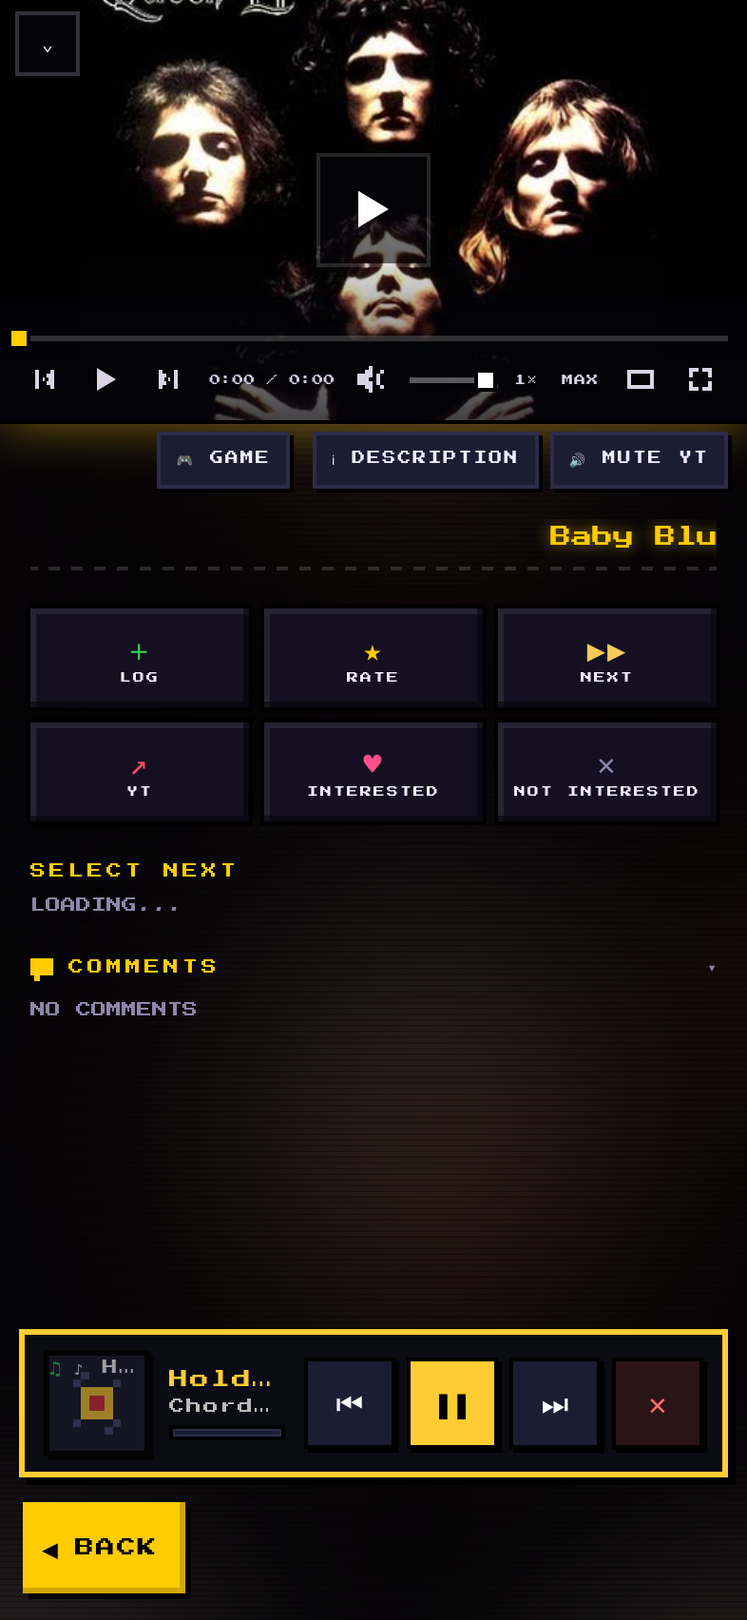
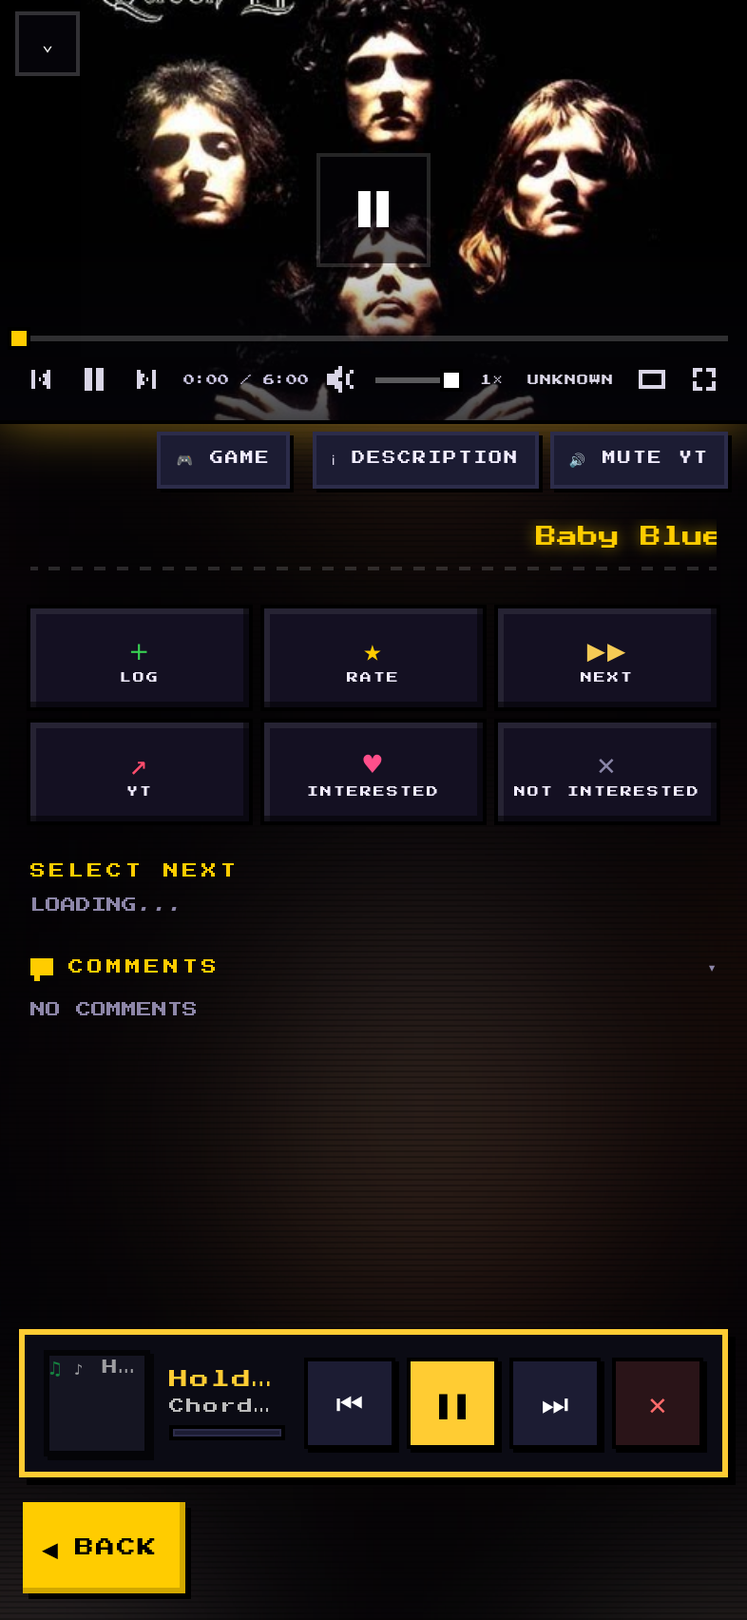
r67: add-title keyboard above sheet on every entry point; ARRANGE merges partial orders, keeps Our Top 5, never reverted by polls/stale replies/other saves; mini player cover; labelled shelf edit buttons

diff --git a/app/index.html b/app/index.html
@@ -1397,6 +1397,9 @@ body.ytfull58 #ytpage,body.ytfull58 body>main{pointer-events:none}
 .ps64 .ui-btn{min-width:44px;min-height:44px;padding:0}
 #set58 .ps63t{display:flex;align-items:center;justify-content:space-between;padding:10px 0}
 #set58 .ps63t span{font:9px var(--pix)}#set58 .ps63t .ui-btn{min-width:72px;min-height:44px}#set58 .ps63t .ui-btn.on{background:#1fae4b;color:#fff}
+/* r67: the 8-bit keyboard must sit above the add sheet (it was hidden under it) */
+body.addopen #kb{z-index:320}
+body.addopen.kbo #add .sheet{padding-bottom:calc(var(--kbh,300px) + 12px)}
 </style></head><body>
 <div id="splash" aria-label="Logged"></div>
 <header><div class="hin">
@@ -5959,12 +5962,12 @@ var DIRECT = /^https:\/\/(p\.scdn\.co\/mp3-preview\/|audio-ssl\.itunes\.apple\.c
 var ART = {}; try { ART = JSON.parse(localStorage.getItem('lg_art61') || '{}'); } catch (e) {} window.ART61 = ART;
 var PVM = {}; try { PVM = JSON.parse(localStorage.getItem('lg_pv60') || '{}'); } catch (e) {}
 function key(t) { return String(t.sp || t.id || '').replace(/[^\w]/g, '') || (String(t.n || '') + '|' + String(t.a || '')).toLowerCase(); }
-function apply(t) { if (!t.art && ART[key(t)]) t.art = ART[key(t)]; var u = PVM[key(t)]; if (u && (!SP.test(t.pv || '') || u !== t.pv)) { if (SP.test(u) || !DIRECT.test(t.pv || '')) t.pv = u; } return t; }
+function apply(t) { if (!t.art && ART[key(t)]) t.art = ART[key(t)]; if (t.art && t.pv) ART['u:' + t.pv] = t.art; var u = PVM[key(t)]; if (u && (!SP.test(t.pv || '') || u !== t.pv)) { if (SP.test(u) || !DIRECT.test(t.pv || '')) t.pv = u; } return t; }
 var Q = [], qt = 0, busy = 0;
 function pvFix(list) { (list || []).forEach(function (t) { if (!t || !t.n) return; apply(t); if ((SP.test(t.pv || '') && t.art) || t._pv60) return; t._pv60 = 1; Q.push(t); }); if (Q.length && !qt) qt = setTimeout(flush, 60); }
 function flush() { qt = 0; if (busy || !Q.length) return; var B = Q.splice(0, 25); busy = 1;
   run('songPv', [B.map(function (t) { return { id: t.sp || (/^[A-Za-z0-9]{22}$/.test(t.id || '') ? t.id : ''), n: t.n, a: t.a || '' }; })], function (R) { busy = 0;
-    (R || []).forEach(function (r, i) { var t = B[i]; if (!r || !t) return; if (r.id) t.sp = r.id; if (r.art) { t.art = t.art || r.art; ART[key(t)] = r.art; } if (r.u) { PVM[key(t)] = r.u; PVM[(String(t.n) + '|' + String(t.a || '')).toLowerCase()] = r.u; if (SP.test(r.u) || !DIRECT.test(t.pv || '')) t.pv = r.u; } });
+    (R || []).forEach(function (r, i) { var t = B[i]; if (!r || !t) return; if (r.id) t.sp = r.id; if (r.art) { t.art = t.art || r.art; ART[key(t)] = r.art; if (r.u) ART['u:' + r.u] = r.art; ART[(String(t.n) + '|' + String(t.a || '')).toLowerCase()] = r.art; } if (r.u) { PVM[key(t)] = r.u; PVM[(String(t.n) + '|' + String(t.a || '')).toLowerCase()] = r.u; if (SP.test(r.u) || !DIRECT.test(t.pv || '')) t.pv = r.u; } });
     try { var ks = Object.keys(PVM); if (ks.length > 600) ks.slice(0, ks.length - 600).forEach(function (k) { delete PVM[k]; }); localStorage.setItem('lg_pv60', JSON.stringify(PVM)); localStorage.setItem('lg_art61', JSON.stringify(ART)); } catch (e) {} try { window.decorate61 && decorate61(); } catch (e) {}
     if (Q.length) flush(); }, function () { busy = 0; B.forEach(function (t) { t._pv60 = 0; }); }); }
 window.pvFix60 = pvFix; window.PVM60 = PVM;
@@ -6130,7 +6133,9 @@ var _sp = spBar; spBar = function (t, playing) { var r = _sp.apply(this, argumen
   if (!x.dataset.v62) { x.dataset.v62 = 1; x.classList.add('mp62'); x.innerHTML = '<div class="m62a"></div><div class="m62m"><span></span><div class="m62p" aria-hidden="true"><i></i></div></div><div class="m62c"><button data-spc="prev" aria-label="Previous">⏮</button><button data-spc="toggle" class="spt" aria-label="Play or pause">❚❚</button><button data-spc="next" aria-label="Next">⏭</button><button data-spc="stop" class="m62x" aria-label="Close">✕</button></div>'; }
   var lab = String(t || '').replace(/\s·\s30s$/, '').replace(/^♪\s*/, ''), sp = split(lab), c = (typeof OXS !== 'undefined' && OXS.cur) || {};
   x.querySelector('.m62m span').innerHTML = '<b>' + esc(c.n && lab.indexOf(c.n) >= 0 ? c.n : sp[0]) + '</b><small>' + esc(c.n && lab.indexOf(c.n) >= 0 ? (c.a || sp[1]) : sp[1]) + '</small>';
-  var a = x.querySelector('.m62a'), u = c.art || ''; if (a.dataset.u !== u) { a.dataset.u = u; a.innerHTML = art61(u); }
+  var a = x.querySelector('.m62a'), AR = window.ART61 || {}, src = (typeof OXA !== 'undefined' && OXA && OXA.src) || '', mine = c.n && lab.indexOf(c.n) >= 0, u = (mine && c.art) || AR['u:' + src] || AR[(String(sp[0] || '') + '|' + String(sp[1] || '')).toLowerCase()] || (mine && c.a && AR[(c.n + '|' + c.a).toLowerCase()]) || '';
+  /* r67: same cover logic as the cabinet — keep the current cover while the same track plays (no re-insert flicker); skeleton while unknown, vinyl only on a real failure */
+  if (!u && a.dataset.src === src && a.dataset.u) u = a.dataset.u; if (a.dataset.u !== u || !a.firstChild) { a.dataset.u = u; a.dataset.src = src; a.innerHTML = u ? art61(u) : '<span class="sa61"></span>'; }
   var list = OXS.mode === 'clip' || (OXS.mode === 'tl' && window.R55 && R55.tl && Object.keys(R55.tl).reduce(function (t, p) { return t + (R55.tl[p] || []).length; }, 0) > 1); x.classList.toggle('m62one', !list);
   x.classList.toggle('paused', !playing); x.querySelector('.spt').textContent = playing ? '❚❚' : '▶'; prog(); return r; };
 function prog() { var x = $('thm'); if (!x || !x.dataset.v62 || typeof OXA === 'undefined') return; var d = OXA.duration || 30, f = Math.max(0, Math.min(1, (OXA.currentTime || 0) / (isFinite(d) && d > 0 ? d : 30))); var i = x.querySelector('.m62p i'); if (i) i.style.width = (f * 100).toFixed(1) + '%'; }
@@ -6223,12 +6228,17 @@ var _cab = cabinetHtml; cabinetHtml = function () { var h = _cab.apply(this, arg
   var secs = [].slice.call(C.children).filter(function (x) { return !/^H3$/.test(x.tagName) && !x.classList.contains('cbdv') && !x.classList.contains('arr64'); });
   var KNOWN = [[/OUR TOP 5/, 'OURTOP5'], [/TOP 5 MOVIES/, 'MOVIES'], [/TOP 5 SHOWS/, 'SHOWS'], [/TOP 5 SOUNDTRACKS/, 'SOUNDTRACKS'], [/TOP 5 YOUTUBE/, 'YOUTUBE']];
   secs.forEach(function (x) { if (x.dataset.sec) return; var h4 = x.querySelector('h4,h3,.lbl'), tx = h4 ? (h4.firstChild && h4.firstChild.nodeType === 3 ? h4.firstChild.textContent : h4.textContent) : ''; var k = KNOWN.filter(function (m) { return m[0].test(tx); })[0]; x.dataset.sec = k ? k[1] : x.classList.contains('cbst') ? 'STATS' : slug(tx.replace(/✎/g, '') || x.className); });
-  var order = (LAY66[p] || pr.lay || []).slice(), idx = function (k) { var i = order.indexOf(k); return i < 0 ? 1e3 + secs.findIndex(function (s) { return s.dataset.sec === k; }) : i; };
+  var order = mergeLay67(LAY66[p] || pr.lay || [], secs.map(function (s) { return s.dataset.sec; })), idx = function (k) { var i = order.indexOf(k); return i < 0 ? 1e3 + secs.findIndex(function (s) { return s.dataset.sec === k; }) : i; };
   secs.sort(function (a, b) { return idx(a.dataset.sec) - idx(b.dataset.sec); }).forEach(function (s) { C.appendChild(s); });
   if (own(p)) { var lab = C.querySelector('.cbdv'); var bar = '<div class="arr64"><button class="ui-btn' + (ARR ? ' on' : '') + '" data-arr64="toggle">' + (ARR ? '✓ DONE ARRANGING' : '⇅ ARRANGE') + '</button></div>'; if (lab) lab.insertAdjacentHTML('afterend', bar); else C.insertAdjacentHTML('afterbegin', bar); }
   if (ARR && own(p)) { C.classList.add('arranging'); secs.forEach(function (s, i) { s.insertAdjacentHTML('afterbegin', '<div class="arc64"><button class="ui-btn" data-arr64="up:' + s.dataset.sec + '"' + (i ? '' : ' disabled') + ' aria-label="Move section up">▲</button><b>' + esc(s.dataset.sec.replace(/-/g, ' ')) + '</b><button class="ui-btn" data-arr64="dn:' + s.dataset.sec + '"' + (i < secs.length - 1 ? '' : ' disabled') + ' aria-label="Move section down">▼</button></div>'); }); }
   return T.innerHTML; };
-var lt = 0, LAY66 = {}, LSEQ66 = {};
+var lt = 0, LAY66 = window.LAY66 = {}, LSEQ66 = {};
+/* r67: a saved order may be partial (e.g. saved before Our Top 5 had loaded). Keep its relative order and slot every missing section next to its default neighbour. */
+var DEF67 = ['OURTOP5', 'MOVIES', 'SHOWS', 'SOUNDTRACKS', 'YOUTUBE', 'QUOTES', 'STATS'];
+function mergeLay67(saved, present) { var out = (saved || []).filter(function (k, i, a) { return typeof k === 'string' && k && a.indexOf(k) === i; });
+  (present || []).forEach(function (k, i) { if (out.indexOf(k) >= 0) return; var prev = null; for (var j = i - 1; j >= 0; j--) if (out.indexOf(present[j]) >= 0) { prev = present[j]; break; } out.splice(prev ? out.indexOf(prev) + 1 : 0, 0, k); }); return out; }
+window.mergeLay67 = mergeLay67;
 function arrFix66(C) { var L = [].slice.call(C.children).filter(function (x) { return x.dataset && x.dataset.sec; }); L.forEach(function (s, i) { var u = s.querySelector(':scope > .arc64 [data-arr64^="up:"]'), d = s.querySelector(':scope > .arc64 [data-arr64^="dn:"]'); if (u) u.disabled = i === 0; if (d) d.disabled = i === L.length - 1; }); return L.map(function (x) { return x.dataset.sec; }); }
 function arrAct66(b) { var a = b.dataset.arr64, p = me();
   if (a === 'toggle') { ARR = !ARR; return renderStats(); }
@@ -6236,7 +6246,7 @@ function arrAct66(b) { var a = b.dataset.arr64, p = me();
   var L = [].slice.call(C.children).filter(function (x) { return x.dataset && x.dataset.sec; }), s = a.split(':'), i = L.findIndex(function (x) { return x.dataset.sec === s[1]; }), j = i + (s[0] === 'up' ? -1 : 1); if (i < 0 || j < 0 || j >= L.length) return;
   var el = L[i], top = el.getBoundingClientRect().top; if (s[0] === 'up') C.insertBefore(el, L[j]); else C.insertBefore(el, L[j].nextSibling);
   var keys = arrFix66(C); window.scrollBy(0, el.getBoundingClientRect().top - top); /* keep the moved section under the finger */
-  LAY66[p] = keys; profiles[p] = Object.assign({}, profiles[p] || {}, { lay: keys });
+  LAY66[p] = mergeLay67(keys, mergeLay67((profiles[p] || {}).lay || [], keys)); (function () { var full = mergeLay67((profiles[p] || {}).lay || [], []), seen = keys.slice(); full.forEach(function (k) { if (seen.indexOf(k) < 0) { var i = full.indexOf(k), prev = null; for (var j = i - 1; j >= 0; j--) if (seen.indexOf(full[j]) >= 0) { prev = full[j]; break; } seen.splice(prev ? seen.indexOf(prev) + 1 : 0, 0, k); } }); LAY66[p] = mergeLay67(seen, DEF67); })(); profiles[p] = Object.assign({}, profiles[p] || {}, { lay: LAY66[p] });
   clearTimeout(lt); lt = setTimeout(function () { var q = (LSEQ66[p] || 0) + 1; LSEQ66[p] = q; var pr = Object.assign({}, profiles[p] || {}, { lay: LAY66[p] }); busy++;
     run('saveProfile', [p, pr], function (o) { busy--; if (q !== LSEQ66[p]) return; /* stale */ if (o) profiles[p] = Object.assign({}, o, { lay: LAY66[p] }); }, function () { busy--; toast('COULDN\u2019T SAVE ORDER — CHECK CONNECTION'); }); }, 600); }
 var ag66 = 0;
@@ -6287,5 +6297,18 @@ window.PS64 = PS; window.psStart64 = psStart; window.psStop64 = psStop;
 window.addEventListener('click', function (e) { var b = e.target.closest && e.target.closest('button[data-who]'); if (!b || !$('v-stats') || !$('v-stats').contains(b)) return; e.preventDefault(); e.stopImmediatePropagation(); SFX.tap && SFX.tap();
   var w = b.dataset.who; if (w !== 'sam' && w !== 'lewy') return; try { psStop(); } catch (er) {} statWho = w; ARR = false; try { renderStats(); } catch (er) { console.error(er); } var Mn = document.querySelector('body>main'); if (Mn) Mn.scrollTop = 0; }, true);
 })();
+/* r67: every add-title entry point opens the add sheet with the title field active inside the same tap */
+(function () { var F = $('fab'); if (!F) return; var go = function () { initAdd(); $('add').classList.add('open'); var t = $('aTitle'); try { kbOpen(t); } catch (e) {} try { t.focus({ preventScroll: true }); } catch (e) {} try { t.scrollIntoView({ block: 'center' }); } catch (e) {} };
+  F.onclick = go; window.addNew67 = go;
+  var _oaw = openAddWith; openAddWith = function () { var r = _oaw.apply(this, arguments); try { kbOpen($('aTitle')); } catch (e) {} return r; }; })();
+
+/* r67: every profile save carries the newest local order; polls/refreshes never put an older order back */
+(function () { var _run = run; run = function (fn, args, ok, fail) { if (fn === 'saveProfile' && args && args[1] && window.LAY66 && LAY66[args[0]]) args[1] = Object.assign({}, args[1], { lay: LAY66[args[0]].slice() }); return _run.apply(this, arguments); };
+  setInterval(function () { try { ['sam', 'lewy'].forEach(function (p) { if (LAY66[p] && profiles[p] && JSON.stringify(profiles[p].lay) !== JSON.stringify(LAY66[p])) { var srv = profiles[p].lay; if (Array.isArray(srv) && srv.length && JSON.stringify(srv) === JSON.stringify(LAY66[p])) return; profiles[p] = Object.assign({}, profiles[p], { lay: LAY66[p].slice() }); } }); } catch (e) {} }, 1000); })();
+/* r67: shelf edit buttons always carry a visible label */
+(function () { var _r = renderStats; renderStats = function () { var r = _r.apply(this, arguments); try { document.querySelectorAll('#cab .ced59').forEach(function (b) { if (b.textContent.trim() !== '✎ EDIT') b.textContent = '✎ EDIT'; }); document.querySelectorAll('#cab h4 button').forEach(function (b) { if (!b.textContent.trim() && !b.querySelector('img,svg,canvas')) b.textContent = '✎ EDIT'; }); } catch (e) {} return r; }; })();
+/* r67: Our Top 5 repaints after its fetch replaced the section and dropped its arrange key/controls (so it vanished from the order and saves) */
+(function () { var _otp = ourTopPaint58; ourTopPaint58 = function () { var x = document.querySelector('#cab .ot58'), sec = x && x.dataset.sec, arc = x && x.querySelector(':scope > .arc64'), arcH = arc && arc.outerHTML; var r = _otp.apply(this, arguments);
+  var y = document.querySelector('#cab .ot58'); if (y && sec) { y.dataset.sec = sec; if (arcH && !y.querySelector(':scope > .arc64')) y.insertAdjacentHTML('afterbegin', arcH); } return r; }; })();
 
 </script></body></html>

diff --git a/tests/add67.steps.js b/tests/add67.steps.js
@@ -1,0 +1,20 @@
+(async () => { const out = {};
+const arc = async (label) => { await p.tap('#nav [data-v=stats]', { timeout: 4000 }); await p.waitForTimeout(500); const ok = await p.evaluate(l => { const b = [...document.querySelectorAll('#arch .archi')].find(x => x.innerText.toUpperCase().includes(l)); if (!b) return false; return true; }, label); if (!ok) return 'no item'; await p.evaluate(l => { [...document.querySelectorAll('#arch .archi')].find(x => x.innerText.toUpperCase().includes(l)).click(); }, label); await p.waitForTimeout(900); }; await p.evaluate(() => { const s = document.getElementById('splash'); s && s.remove(); });
+await p.tap('#navLogM').catch(e => out.e1 = e.message.slice(0, 80)); await p.waitForTimeout(600);
+out.items = await p.evaluate(() => [...document.querySelectorAll('button')].filter(b => b.offsetParent && /LOG IT/.test(b.innerText)).map(b => b.id + '|' + b.className));
+await p.evaluate(() => { const b = [...document.querySelectorAll('button')].filter(b => b.offsetParent && /LOG IT/.test(b.innerText) && b.id !== 'fab').pop(); b && b.setAttribute('data-t67', '1'); });
+await p.tap('[data-t67]').catch(e => out.e2 = e.message.slice(0, 80)); await p.waitForTimeout(800);
+out.st = await p.evaluate(() => { const a = document.getElementById('add'), t = document.getElementById('aTitle'), r = t.getBoundingClientRect(), kb = document.getElementById('kb'); return { open: a.classList.contains('open'), vis: getComputedStyle(a).visibility + '/' + getComputedStyle(a).display + '/' + getComputedStyle(a).opacity, t: [r.y, r.height], at: (document.elementFromPoint(r.x + 10, r.y + r.height / 2) || {}).id, act: document.activeElement && document.activeElement.id, kb: kb && kb.classList.contains('on'), kbR: kb && kb.getBoundingClientRect().y, kbz: kb && getComputedStyle(kb).zIndex, az: getComputedStyle(a).zIndex }; });
+out.kbTop = await p.evaluate(() => { const k = document.getElementById('kb'), r = k.getBoundingClientRect(), e = document.elementFromPoint(r.x + r.width / 2, r.y + 20); return k.contains(e); });
+await p.screenshot({ path: '/workspace/logged-site/shots/r67_logit_' + (await p.evaluate(() => me())) + '.png' });
+for (const ch of ['D', 'U', 'N']) { const bx = await p.evaluate(ch => { const b = [...document.querySelectorAll('#kb button')].find(b => b.innerText.trim() === ch); const r = b.getBoundingClientRect(); return [r.x + r.width / 2, r.y + r.height / 2]; }, ch); await p.touchscreen.tap(bx[0], bx[1]); await p.waitForTimeout(80); }
+out.typed = await p.evaluate(() => document.getElementById('aTitle').value); out.titleVis = await p.evaluate(() => { const t = document.getElementById('aTitle').getBoundingClientRect(), k = document.getElementById('kb').getBoundingClientRect(); return t.bottom <= k.top && t.top >= 0; });
+await p.evaluate(() => { document.getElementById('add').classList.remove('open'); try { kbClose(); } catch (e) {} });
+/* other entry points: + menu NEW ENTRY and nav add */
+await p.evaluate(() => { plusItems()[0].go(); }); await p.waitForTimeout(300); out.plus = await p.evaluate(() => [document.getElementById('add').classList.contains('open'), document.getElementById('kb').classList.contains('on'), document.getElementById('aTitle').classList.contains('kon')]);
+await p.evaluate(() => { document.getElementById('add').classList.remove('open'); kbClose(); document.getElementById('navAdd').click(); }); await p.waitForTimeout(300); out.navAdd = await p.evaluate(() => [document.getElementById('add').classList.contains('open'), document.getElementById('kb').classList.contains('on')]);
+/* mini player cover */
+await p.evaluate(() => { document.getElementById('add').classList.remove('open'); kbClose(); });
+await arc('PROFILE'); await p.waitForTimeout(600); await p.evaluate(() => { const b = document.querySelector('#cab [data-cbsnd]'); b && b.click(); }); await p.waitForTimeout(1500);
+out.mini = await p.evaluate(() => { const a = document.querySelector('#thm .m62a'); if (!a) return null; const i = a.querySelector('img'); return { cls: (a.querySelector('.sa61') || {}).className, src: i && i.src.slice(0, 60), filt: i && getComputedStyle(i).filter, ir: i && getComputedStyle(i).imageRendering, op: i && getComputedStyle(i).opacity }; });
+console.log('ADD67 ' + JSON.stringify(out)); console.log('errors', JSON.stringify(errs)); })()

diff --git a/tests/arr67.steps.js b/tests/arr67.steps.js
@@ -1,0 +1,21 @@
+(async () => { const out = {}; await p.evaluate(() => { const s = document.getElementById('splash'); s && s.remove(); }); const who = await p.evaluate(() => me()); out.who = who;
+const arc = async (label) => { await p.tap('#nav [data-v=stats]', { timeout: 4000 }); await p.waitForTimeout(500); const ok = await p.evaluate(l => { const b = [...document.querySelectorAll('#arch .archi')].find(x => x.innerText.toUpperCase().includes(l)); if (!b) return false; return true; }, label); if (!ok) return 'no item'; await p.evaluate(l => { [...document.querySelectorAll('#arch .archi')].find(x => x.innerText.toUpperCase().includes(l)).click(); }, label); await p.waitForTimeout(900); };
+const ord = () => p.evaluate(() => [...document.querySelectorAll('#cab > [data-sec]')].map(x => x.dataset.sec));
+const up = async k => { const bx = await p.evaluate(k => { const b = document.querySelector('[data-arr64="up:' + k + '"]'); if (!b || b.disabled) return null; b.scrollIntoView({ block: 'center' }); const r = b.getBoundingClientRect(); return [r.x + r.width / 2, r.y + r.height / 2]; }, k); if (!bx) return false; await p.touchscreen.tap(bx[0], bx[1]); await p.waitForTimeout(150); return true; };
+S.prof = Object.assign({}, S.prof || {}); S.prof[who] = Object.assign({}, S.prof[who] || {}, { lay: ['STATS', 'MOVIES'] }); /* partial, like a save before Our Top 5 loaded */
+await p.reload(); await p.waitForTimeout(2500); await p.evaluate(() => { const s = document.getElementById('splash'); s && s.remove(); }); await arc('PROFILE'); await p.waitForTimeout(2500);
+out.partial = await ord();
+await p.evaluate(() => document.querySelector('#cab [data-arr64="toggle"]').click()); await p.waitForTimeout(400);
+/* stale server reply: the save answers with the OLD order */
+let n = 0; global.MOCKX = (fn, args) => { if (fn === 'saveProfile' && n++ === 0) { S.prof[args[0]] = Object.assign({}, args[1], { lay: ['STATS', 'MOVIES'] }); return Object.assign({}, args[1], { lay: ['STATS', 'MOVIES'] }); } };
+out.m1 = []; for (let i = 0; i < 3; i++) { await up('QUOTES'); out.m1.push((await ord()).indexOf('QUOTES')); }
+await p.waitForTimeout(1500); out.afterStale = await ord();
+/* a poll brings old profiles back */
+await p.evaluate(() => { profiles[me()] = Object.assign({}, profiles[me()], { lay: ['STATS', 'MOVIES'] }); renderStats(); }); await p.waitForTimeout(300); out.afterPoll = await ord();
+out.m2 = []; for (let i = 0; i < 3; i++) { await up('YOUTUBE'); out.m2.push((await ord()).indexOf('YOUTUBE')); }
+/* another profile edit (no lay) must not wipe it */
+await p.evaluate(() => run('saveProfile', [me(), { tv: [], mv: [] }], () => {}, () => {})); await p.waitForTimeout(1500);
+out.final = await ord(); out.server = S.prof[who].lay;
+global.MOCKX = null; await p.reload(); await p.waitForTimeout(2500); await p.evaluate(() => { const s = document.getElementById('splash'); s && s.remove(); }); await arc('PROFILE'); await p.waitForTimeout(2500);
+out.reload = await ord(); out.persist = JSON.stringify(out.reload) === JSON.stringify(out.final);
+console.log('ARR67 ' + JSON.stringify(out)); console.log('errors', JSON.stringify(errs)); })()

diff --git a/tests/r62.steps.js b/tests/r62.steps.js
@@ -15,6 +15,7 @@ out.counts = counts;
 await p.evaluate(() => { const r = rows.filter(x => !isYT(x))[0]; r.themeL = { [me()]: [{ n: 'Baby Blue', a: 'Badfinger', pv: 'https://p.scdn.co/mp3-preview/bb', art: 'https://i.scdn.co/image/ab67616d00001e02255e131abc1410833be95673', sc: 'show' }, { n: 'Bones', a: 'Imagine Dragons', pv: 'https://p.scdn.co/mp3-preview/bo', sc: 'show' }] }; openDetail(r); window.PL = []; HTMLMediaElement.prototype.play = function () { PL.push({ src: this.src, ev: window.event && window.event.type }); return Promise.resolve(); }; });
 await p.waitForTimeout(1200);
 await p.tap('[data-tlp="' + who + ':0"]', { timeout: 4000 }).catch(e => out.playErr = e.message.slice(0, 100)); await p.waitForTimeout(500);
+await p.waitForTimeout(1200); out.mini67 = await p.evaluate(() => { const a = document.querySelector('#thm .m62a'); if (!a) return null; const i = a.querySelector('img'), s = a.querySelector('.sa61'); return { cls: s && s.className, src: i && i.src.slice(0, 70), filt: i && getComputedStyle(i).filter, ir: i && getComputedStyle(i).imageRendering, op: i && getComputedStyle(i).opacity, mode: OXS.mode }; });
 out.inTap = await p.evaluate(() => PL.filter(x => x.src === OXA.src).map(x => x.ev));
 await p.evaluate(() => { try { document.querySelector('#detail .x, [data-close=detail]')?.click(); } catch (e) {} });
 out.mini = await p.evaluate(() => { const x = document.getElementById('thm'), n = document.getElementById('nav'); if (!x) return 'none'; const r = x.getBoundingClientRect(), nr = n.getBoundingClientRect();

diff --git a/tests/add67p.steps.js b/tests/add67p.steps.js
@@ -1,0 +1,8 @@
+(async () => { const out = {}; await p.evaluate(() => { const s = document.getElementById('splash'); s && s.remove(); });
+await p.tap('#navLogM').catch(e => out.e1 = e.message.slice(0, 80)); await p.waitForTimeout(600);
+out.items = await p.evaluate(() => [...document.querySelectorAll('button')].filter(b => b.offsetParent && /LOG IT/.test(b.innerText)).map(b => b.id + '|' + b.className));
+await p.evaluate(() => { const b = [...document.querySelectorAll('button')].filter(b => b.offsetParent && /LOG IT/.test(b.innerText) && b.id !== 'fab').pop(); b && b.setAttribute('data-t67', '1'); });
+await p.tap('[data-t67]').catch(e => out.e2 = e.message.slice(0, 80)); await p.waitForTimeout(800);
+out.st = await p.evaluate(() => { const a = document.getElementById('add'), t = document.getElementById('aTitle'), r = t.getBoundingClientRect(), kb = document.getElementById('kb'); return { open: a.classList.contains('open'), vis: getComputedStyle(a).visibility + '/' + getComputedStyle(a).display + '/' + getComputedStyle(a).opacity, t: [r.y, r.height], at: (document.elementFromPoint(r.x + 10, r.y + r.height / 2) || {}).id, act: document.activeElement && document.activeElement.id, kb: kb && kb.classList.contains('on'), kbR: kb && kb.getBoundingClientRect().y, kbz: kb && getComputedStyle(kb).zIndex, az: getComputedStyle(a).zIndex }; });
+await p.screenshot({ path: '/workspace/logged-site/shots/r67_logit.png' });
+console.log('ADD67 ' + JSON.stringify(out)); console.log('errors', JSON.stringify(errs)); })()

diff --git a/tests/blank67.steps.js b/tests/blank67.steps.js
@@ -1,0 +1,5 @@
+(async () => { const out = {}; await p.evaluate(() => { const s = document.getElementById('splash'); s && s.remove(); }); const who = await p.evaluate(() => me()); out.who = who;
+const arc = async (label) => { await p.tap('#nav [data-v=stats]', { timeout: 4000 }); await p.waitForTimeout(500); const ok = await p.evaluate(l => { const b = [...document.querySelectorAll('#arch .archi')].find(x => x.innerText.toUpperCase().includes(l)); if (!b) return false; return true; }, label); if (!ok) return 'no item'; await p.evaluate(l => { [...document.querySelectorAll('#arch .archi')].find(x => x.innerText.toUpperCase().includes(l)).click(); }, label); await p.waitForTimeout(900); };
+await arc('PROFILE'); await p.waitForTimeout(500);
+out.blank = await p.evaluate(() => [...document.querySelectorAll('#cab button')].filter(b => !b.innerText.trim() && !b.querySelector('img,canvas,svg,.sa61')).map(b => b.outerHTML.slice(0, 200) + ' @' + (b.closest('[data-sec]') || {}).dataset?.sec + ' bg=' + getComputedStyle(b).backgroundImage.slice(0, 40)));
+console.log('BL67 ' + JSON.stringify(out)); })()

diff --git a/app/sw.js b/app/sw.js
@@ -1,5 +1,5 @@
 /* Logged service worker: app shell network-first (so git push updates land), static + posters cache-first. Never caches the API. */
-var V = 'logged-1792063464', SHELL = ['./', 'index.html', 'manifest.json', 'icon-192.png', 'icon-512.png', 'apple-touch-icon.png'];
+var V = 'logged-1792064715', SHELL = ['./', 'index.html', 'manifest.json', 'icon-192.png', 'icon-512.png', 'apple-touch-icon.png'];
 self.addEventListener('install', function (e) { self.skipWaiting(); e.waitUntil(caches.open(V).then(function (c) { return c.addAll(SHELL).catch(function () {}); })); });
 self.addEventListener('activate', function (e) { e.waitUntil(caches.keys().then(function (ks) { return Promise.all(ks.filter(function (k) { return k !== V && k.indexOf('logged-') === 0; }).map(function (k) { return caches.delete(k); })); }).then(function () { return self.clients.claim(); })); });
 self.addEventListener('fetch', function (e) {

diff --git a/tests/add67q.steps.js b/tests/add67q.steps.js
@@ -1,0 +1,5 @@
+(async () => { const out = {}; await p.evaluate(() => { const s = document.getElementById('splash'); s && s.remove(); });
+await p.tap('#q').catch(e => out.e1 = e.message.slice(0, 80)); await p.waitForTimeout(800);
+out.st = await p.evaluate(() => ({ act: document.activeElement && (document.activeElement.id || document.activeElement.className), im: document.getElementById('q').getAttribute('inputmode'), kb: document.getElementById('kb').classList.contains('on'), open: [...document.querySelectorAll('.open')].map(x => x.id || x.className).slice(0, 6) }));
+await p.screenshot({ path: '/workspace/logged-site/shots/r67_q.png' });
+console.log('Q67 ' + JSON.stringify(out)); })()
